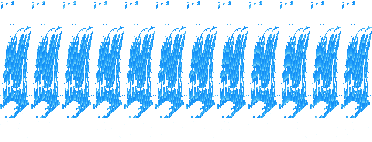
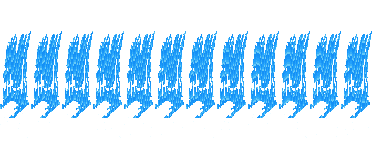
Fix the hero on small screens, the evidence gap and the waterfall glitch
- Phones: one full-height hero with the copy in the scene's sky and the
  terrace at the bottom, instead of headline / scene band / text blocks.
- The scene never zooms in past what keeps the agents in view; when the
  frame is taller, it stands on the bottom edge and the sky (the plate's own
  colour) continues above. The hero reserves room under the copy for the
  terrace, so copy and agents can't overlap at any size.
- Phones show four agents in a row (Evidence was hidden, leaving a gap);
  the hand-off spark now runs on phones too.
- Waterfalls animate only the falling water: the colour test also caught
  sky seen through the wall's arches and patches of mist, which flickered.
- The full nav starts at 1280 px; at 1024 it wrapped onto two lines.
- Provenance: all art is from ChatGPT, per the owner.

diff --git a/website/src/components/hero/hero.tsx b/website/src/components/hero/hero.tsx
@@ -25,21 +25,25 @@ export function Hero() {
     <section
       id="top"
       aria-labelledby="hero-title"
-      className="on-dark relative isolate flex flex-col overflow-hidden bg-[#128aef] text-white md:block md:min-h-[max(820px,min(100svh,960px))]"
+      className="on-dark relative isolate flex min-h-[max(100svh,600px)] flex-col overflow-hidden bg-[#128aef] text-white md:min-h-[max(820px,min(100svh,960px))]"
     >
-      <div className="hero-frame relative order-2 md:absolute md:inset-0">
+      {/* the scene fills the hero at every size; the copy sits in its sky */}
+      <div className="hero-frame absolute inset-0">
         <HeroScene />
       </div>
 
-      {/* scrim: only behind the copy column, so white body text reaches 4.5:1 over the sky */}
+      {/* scrims, so white body text reaches 4.5:1 over the sky: a column on desktop, a top band on phones */}
       <div
         aria-hidden="true"
         className="pointer-events-none absolute inset-y-0 left-0 hidden w-[62%] bg-[linear-gradient(90deg,rgb(6_33_61/0.42)_0%,rgb(6_33_61/0.3)_55%,transparent_100%)] [mask-image:linear-gradient(180deg,black_0%,black_55%,transparent_75%)] md:block"
       />
+      <div
+        aria-hidden="true"
+        className="pointer-events-none absolute inset-x-0 top-0 h-[72%] bg-[linear-gradient(180deg,rgb(6_33_61/0.5)_0%,rgb(6_33_61/0.38)_55%,transparent_100%)] md:hidden"
+      />
 
-      {/* Desktop: one copy column over the sky. Phones: headline above the scene, explanation below it. */}
-      <div className="max-md:contents md:relative md:z-10 md:mx-auto md:max-w-[1440px] md:px-16 md:pt-36 md:pb-10">
-        <Entrance className="relative z-10 order-1 px-4 md:max-w-[560px] pt-24 pb-6 max-md:bg-[linear-gradient(180deg,#0b5fa8_0%,#0e74cc_70%,#128aef_100%)] md:px-0 md:pt-0 md:pb-0">
+      <div className="relative z-10 w-full px-4 pt-24 md:mx-auto md:max-w-[1440px] md:px-16 md:pt-36 md:pb-10">
+        <Entrance className="md:max-w-[560px]">
           <EntranceItem>
             <p className="label-mono text-white/85">Behavioural assessment for web apps</p>
           </EntranceItem>
@@ -50,9 +54,9 @@ export function Hero() {
             </h1>
           </EntranceItem>
         </Entrance>
-        <Entrance start={2} className="relative z-10 order-3 px-4 md:max-w-[560px] pt-6 pb-14 max-md:bg-azure-deep md:px-0 md:pt-0 md:pb-0">
+        <Entrance start={2} className="md:max-w-[560px]">
           <EntranceItem>
-            <p className="font-extrabold md:mt-6">One contract. Many different builds. Evidence-backed verdicts.</p>
+            <p className="mt-6 font-extrabold">One contract. Many different builds. Evidence-backed verdicts.</p>
             <p className="mt-2 text-white/90">
               Kane CLI acts in a real browser and records what it sees. Optimus judges that evidence against one
               unchanged contract — deterministically, with no AI deciding the verdict.
@@ -75,6 +79,9 @@ export function Hero() {
           </EntranceItem>
         </Entrance>
       </div>
+      {/* room for the terrace and agents under the copy: they stand in the scene's lowest 40%, and the
+          scene is 100vw tall on phones (zoomed to four agents) and 56.25vw from tablets up (full width) */}
+      <div aria-hidden="true" className="min-h-[44vw] flex-1 md:min-h-[25vw]" />
 
       <div aria-hidden="true" className="absolute inset-x-0 bottom-0 z-10 h-6">
         <PixelEdge />

diff --git a/website/src/app/globals.css b/website/src/app/globals.css
@@ -224,39 +224,40 @@
 
 /* ---------- hero scene ---------- */
 /*
- * The scene keeps its 16:9 art coordinates and covers the frame. The scene point (--fx, --fy) is
- * pinned to the same fraction of the frame, so a scene at least as large as the frame always
- * reaches every edge, and the terrace and agents stay in view at any viewport.
+ * The scene keeps its 16:9 art coordinates. It covers the frame, but never zooms in further than
+ * --cap allows, so the agents on the terrace are never cut off. When the frame is taller than
+ * that (narrow or portrait screens), the scene stands on the frame's bottom edge and the sky
+ * continues above it: the section's background is the plate's own sky colour (#128aef), and the
+ * plate's top edge fades into it. The copy sits in that sky, as on a full-bleed hero.
+ *
+ *   --cap  widest the scene may get, in frame widths (640 / visible art px)
+ *   --fxn  horizontal pin (0 = scene's left edge on the frame's, 1 = right edge on right)
+ *   --fyn  vertical pin while the scene is taller than the frame (crops sky and wall evenly)
  */
 .hero-frame {
   container-type: size;
   overflow: hidden;
 }
 .hero-scene {
-  /* 68%: keeps the Smith's right edge (96% of the scene) in view when a short window crops the sides */
-  --fx: 68%;
-  --fy: 72%;
-  --px: var(--fx);
-  --py: var(--fy);
+  /* tablet and desktop: the whole 640 art px width, never zoomed in, so all five agents are always
+     in view and the copy (which the hero reserves room for, above the terrace) never meets them */
+  --cap: 100cqw;
+  --fxn: 0.5;
+  --fyn: 0.72;
+  --sw: max(100cqw, min(calc(100cqh * 16 / 9), var(--cap)));
+  --sh: calc(var(--sw) * 9 / 16);
   position: absolute;
-  left: var(--px);
-  top: var(--py);
-  width: max(100cqw, calc(100cqh * 16 / 9));
+  width: var(--sw);
   aspect-ratio: 16 / 9;
-  transform: translate(calc(var(--fx) * -1), calc(var(--fy) * -1));
+  left: calc((100cqw - var(--sw)) * var(--fxn));
+  top: max(calc((100cqh - var(--sh)) * var(--fyn)), calc(100cqh - var(--sh)));
+  mask-image: linear-gradient(180deg, transparent 0%, black 4%);
 }
 @media (max-width: 767px) {
-  /* phones: a band between headline and explanation, cropped to Contract, Browser run and Verdict */
-  .hero-frame {
-    height: 84vw;
-  }
   .hero-scene {
-    /* visible x = native 159-519: Contract (163-233) and Verdict (440-514) fully in view.
-       The terrace edge (scene y 94%) sits on the frame's bottom edge. */
-    --fx: 56.6%;
-    --fy: 94%;
-    --py: 100%;
-    width: 178cqw;
+    /* phones: 360 art px wide (native 159-519): Contract, Browser run, Evidence and Verdict */
+    --cap: calc(100cqw * 640 / 360);
+    --fxn: 0.566;
   }
   .headline {
     font-size: 2.5rem;

diff --git a/website/src/components/site-nav.tsx b/website/src/components/site-nav.tsx
@@ -53,7 +53,7 @@ export function SiteNav({ overHero = true }: { overHero?: boolean }) {
       <nav aria-label="Main" className={cn("mx-auto flex h-18 max-w-[1440px] items-center justify-between gap-4 px-4 md:px-16", onDark && "on-dark")}>
         <Wordmark onDark={onDark} />
 
-        <div className="hidden items-center gap-2 lg:flex">
+        <div className="hidden items-center gap-2 whitespace-nowrap xl:flex">
           <ul className={cn("flex h-11 items-center rounded-full px-2", onDark ? "glass" : "border border-rule bg-paper-2")}>
             {CHAPTERS.map((c) => (
               <li key={c.href}>
@@ -99,7 +99,7 @@ export function SiteNav({ overHero = true }: { overHero?: boolean }) {
         <Dialog open={open} onOpenChange={setOpen}>
           <DialogTrigger
             className={cn(
-              "inline-flex size-11 items-center justify-center rounded-sm lg:hidden",
+              "inline-flex size-11 items-center justify-center rounded-sm xl:hidden",
               onDark ? "glass text-white" : "border border-rule bg-paper-2 text-ink",
             )}
             aria-label="Open menu"

diff --git a/website/src/content/scene.ts b/website/src/content/scene.ts
@@ -40,7 +40,7 @@ export interface AgentSpec {
   x: number;
   /** Where the hand-off spark touches this agent's prop (native px). */
   prop: { x: number; y: number } | null;
-  /** Shown in the hero on phones (three agents only). */
+  /** Shown in the hero on phones (the four that fit: all but the Smith, at the right edge). */
   mobile: boolean;
 }
 
@@ -72,7 +72,7 @@ export const AGENTS: AgentSpec[] = [
   }),
   agent({
     id: "evidence", name: "The evidence", caption: "Every step, every screenshot", href: "#evidence",
-    x: 384, prop: { x: 404, y: 270 }, mobile: false,
+    x: 384, prop: { x: 404, y: 270 }, mobile: true,
   }),
   agent({
     id: "verdict", name: "The verdict", caption: "Optimus decides, deterministically", href: "#verdicts",

diff --git a/website/src/components/hero/hero-cast.tsx b/website/src/components/hero/hero-cast.tsx
@@ -268,7 +268,7 @@ export function HeroCast() {
         ))}
       </ul>
 
-      <span ref={spark} aria-hidden="true" className="handoff-track max-md:hidden">
+      <span ref={spark} aria-hidden="true" className="handoff-track">
         <span className="handoff" />
       </span>
       <span

diff --git a/website/scripts/make_hero_layers.py b/website/scripts/make_hero_layers.py
@@ -221,6 +221,12 @@ def main() -> None:
         rr, gg, bb = region[..., 0], region[..., 1], region[..., 2]
         water = (bb > 170) & (gg > 140) & (rr < 150) & (bb - rr > 60)
         water[region.shape[0] - 24:, :] = False          # bottom band is spray only
+        # Only the falling water itself: the colour test also catches sky seen through the wall's
+        # arches and balustrade, and patches of mist, which then flickered with the water.
+        labels = components(water)
+        sizes = np.bincount(labels.ravel())
+        sizes[0] = 0
+        water = labels == int(sizes.argmax())
         h, w = water.shape
         phase = rng.integers(0, 12, size=w)
         speed = rng.choice([1, 2], size=w)                # 12 or 6 frames per stripe cycle

diff --git a/docs/design/ASSET_PROVENANCE.md b/docs/design/ASSET_PROVENANCE.md
@@ -7,9 +7,9 @@ The hackathon requires that work is made during the event (from 21 Nov 2026).
 
 | File in `assets/source/` | What it is | Generation tool / model | Date |
 |---|---|---|---|
-| `asset-pack-sheet.png` (1536×1024) | Board with the cast (A-01…A-05, main + blink), editorial scenes E-01…E-04, hero layers, dusk scene, palette | OpenAI GPT image generation (generated 22 Nov 2026; to be edited by the owner later, and this entry updated after the edits) | supplied 23 Nov 2026 |
-| `website-kit-mockup.png` (1536×1024) | Website mock-up board; source of the only full dusk scene (F-01) | OpenAI GPT image generation (generated 22 Nov 2026; to be edited by the owner later, and this entry updated after the edits) | supplied 23 Nov 2026 |
-| `observatory-plate.png` (1672×941) | Hero environment without characters (H-01a) | OpenAI GPT image generation (generated 22 Nov 2026; to be edited by the owner later, and this entry updated after the edits) | supplied 23 Nov 2026 |
+| `asset-pack-sheet.png` (1536×1024) | Board with the cast (A-01…A-05, main + blink), editorial scenes E-01…E-04, hero layers, dusk scene, palette | ChatGPT (OpenAI image generation), generated 22 Nov 2026; to be edited by the owner later, and this entry updated after the edits | supplied 23 Nov 2026 |
+| `website-kit-mockup.png` (1536×1024) | Website mock-up board; source of the only full dusk scene (F-01) | ChatGPT (OpenAI image generation), generated 22 Nov 2026; to be edited by the owner later, and this entry updated after the edits | supplied 23 Nov 2026 |
+| `observatory-plate.png` (1672×941) | Hero environment without characters (H-01a) | ChatGPT (OpenAI image generation), generated 22 Nov 2026; to be edited by the owner later, and this entry updated after the edits | supplied 23 Nov 2026 |
 
 The boards were generated from the requests in `docs/design/requests/` (H-01, A-05, A-00, E-01…E-04,
 F-01). They are presentation boards, not individual files: the claims printed on them ("exact-grid
@@ -19,11 +19,11 @@ exports", "≤32 colours") describe the request, not the delivered pixels.
 
 | File in `assets/source/` | Agent | Generation tool / model | Date |
 |---|---|---|---|
-| `Hooded Robot Sprite Sheet.png` (2172×724) | contract | **To be supplied by the owner** | supplied 23 Nov 2026 |
-| `Hooded Hacker Robot Sprite Sheet.png` (2172×724) | browser run (walk row empty, as requested) | **To be supplied by the owner** | supplied 23 Nov 2026 |
-| `Hooded Robot Detective Sprite Sheet.png` (2172×724) | evidence | **To be supplied by the owner** | supplied 23 Nov 2026 |
-| `Pixel Robot Inspector Sprite Sheet.png` (2172×724) | verdict | **To be supplied by the owner** | supplied 23 Nov 2026 |
-| `Chibi Robot Mechanic Sprite Sheet.png` (2172×724) | repair smith | **To be supplied by the owner** | supplied 23 Nov 2026 |
+| `Hooded Robot Sprite Sheet.png` (2172×724) | contract | ChatGPT (OpenAI image generation), per the owner | supplied 23 Nov 2026 |
+| `Hooded Hacker Robot Sprite Sheet.png` (2172×724) | browser run (walk row empty, as requested) | ChatGPT (OpenAI image generation), per the owner | supplied 23 Nov 2026 |
+| `Hooded Robot Detective Sprite Sheet.png` (2172×724) | evidence | ChatGPT (OpenAI image generation), per the owner | supplied 23 Nov 2026 |
+| `Pixel Robot Inspector Sprite Sheet.png` (2172×724) | verdict | ChatGPT (OpenAI image generation), per the owner | supplied 23 Nov 2026 |
+| `Chibi Robot Mechanic Sprite Sheet.png` (2172×724) | repair smith | ChatGPT (OpenAI image generation), per the owner | supplied 23 Nov 2026 |
 
 Generated from `docs/design/requests/A-06.md` (v2). Delivered as 8 columns × 3 rows (turnaround,
 walk, action) on a transparent canvas, but not on the requested exact 384 px grid (cells are
